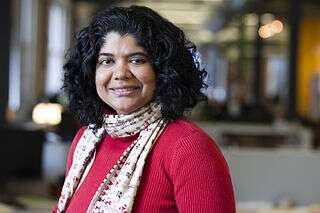
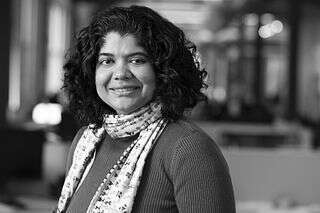
update people

diff --git a/content/about/about.md b/content/about/about.md
@@ -43,7 +43,7 @@ O Foundation (OFDN) works on openness, digital rights, access to knowledge and m
 
 ### Alumni
 
-Mrutyunjaya Kar, Shitikantha Dash, Shreekant Kedia, Prateek Pattanaik and Sailesh Patnaik.
+Founding members: Mrutyunjaya Kar, Shitikantha Dash, Shreekant Kedia, Prateek Pattanaik, Sailesh Patnaik; advisor: Siko Bouterse.
 
 ## Core values
 
